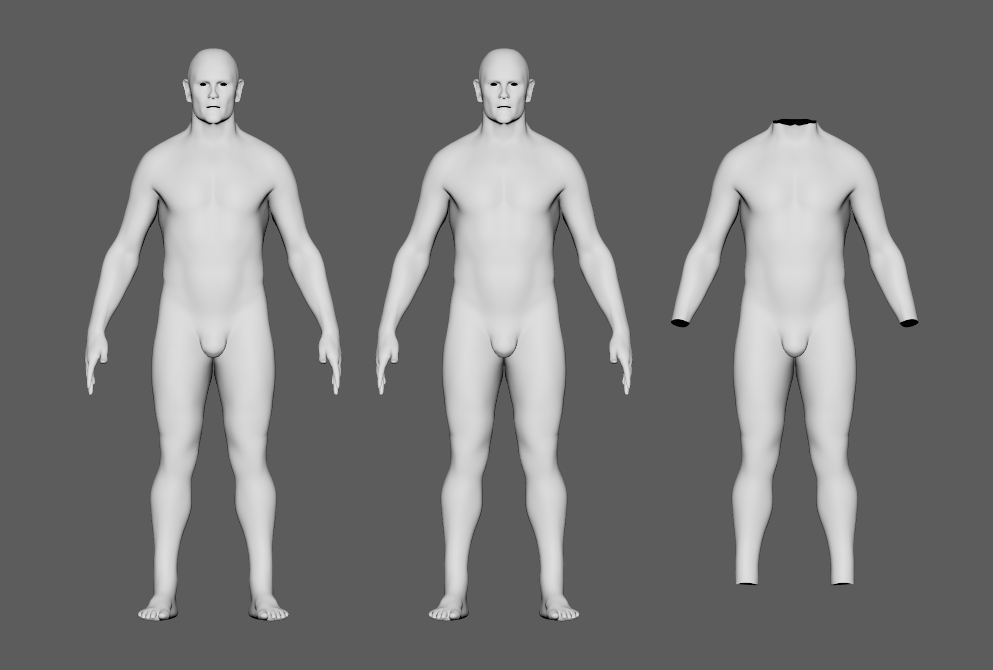
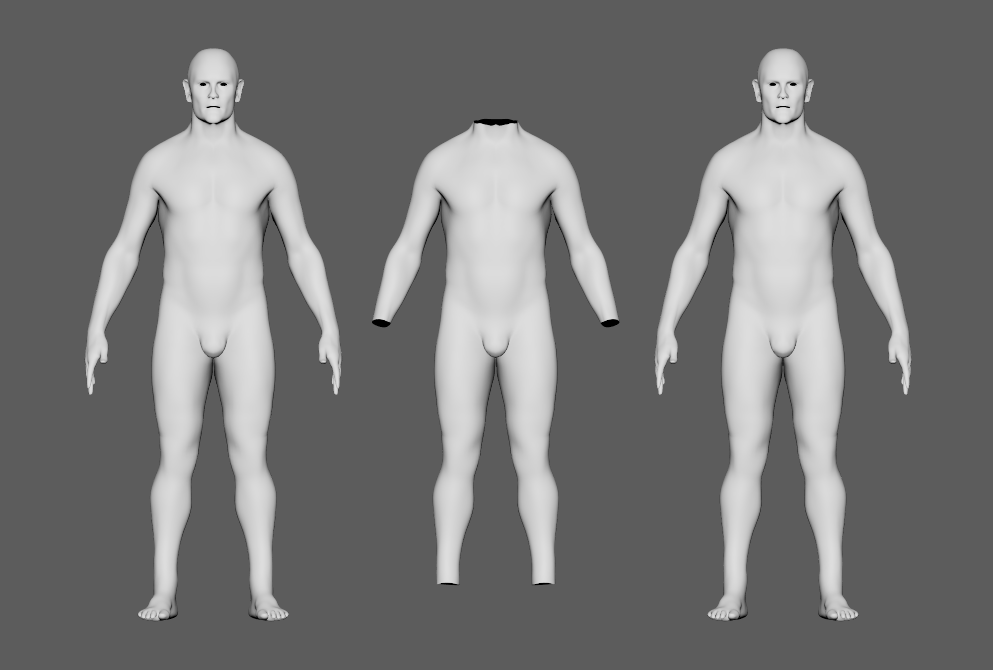
Improved screenshots for skin merge simple setup (maya and houdini). Rephrased captions.

Changed region(s): [[0.3746, 0.0597, 0.9366, 0.9254], [0.7492, 0.0597, 0.8429, 0.209]]

diff --git a/docs/houdini/simple_setup.md b/docs/houdini/simple_setup.md
@@ -28,7 +28,7 @@ The AdnSkinMerge deformer will be applied to the final mesh which will be the re
 
 <figure>
   <img src="images/simple_setup_skin_merge_00.png">
-  <figcaption><b>Figure X</b>: Basic setup for skin merge. Meshes isolated for better visualization. From left to right: Final Mesh, Animation Mesh, Simulation Mesh.</figcaption>
+  <figcaption><b>Figure X</b>: Minimum required geometries to configure an AdnSkinMerge SOP. From left to right: Animation Mesh, Simulation Mesh and Final Mesh to apply the AdnSkinMerge SOP.</figcaption>
 </figure>
 
 ### Create Deformer
@@ -42,7 +42,7 @@ To create the AdnSkinMerge node, press TAB and navigate to the submenu AdonisFX 
 
 ### Paint Weights
 
-To tweak the point attributes of an AdnSkinMerge SOP, an attribpaint is needed. To ease the creation and initial configuration of this node, select the AdnSkinMerge SOP and click on AdonisFX > Utils > Make Paintable. This utility will create an attribcreate node to define the required point attributes and assign their default values followed by an attribpaint node to allow these attributes to be modified. Both nodes are automatically named and properly connected to the AdnSkinMerge node.
+To tweak the point attributes of an AdnSkinMerge SOP, an `attribpaint` is needed. To ease the creation and initial configuration of this node, select the AdnSkinMerge SOP and click on AdonisFX > Utils > Make Paintable. This utility will create an `attribcreate` node to define the required point attributes and assign their default values followed by an `attribpaint` node to allow these attributes to be modified. Both nodes are automatically named and properly connected to the AdnSkinMerge node.
 
 <figure style="width: 70%;" markdown>
   <img src="images/simple_setup_skin_merge_02.png">

diff --git a/docs/houdini/deformers/skin_merge.md b/docs/houdini/deformers/skin_merge.md
@@ -109,4 +109,4 @@ Once the AdnSkinMerge SOP is created, the input meshes (animation mesh list, sim
 </figure>
 
 > [!NOTE]
-> To tweak the point attributes of an AdnSkinMerge SOP, an attribpaint is needed. To ease the creation and initial configuration of this node, select the AdnSkinMerge SOP and click on AdonisFX > Utils > Make Paintable. This utility will create an attribcreate node to define the required point attributes and assign their default values followed by an attribpaint node to allow these attributes to be modified. Both nodes are automatically named and properly connected to the AdnSkinMerge node.
+> To tweak the point attributes of an AdnSkinMerge SOP, an `attribpaint` is needed. To ease the creation and initial configuration of this node, select the AdnSkinMerge SOP and click on AdonisFX > Utils > Make Paintable. This utility will create an `attribcreate` node to define the required point attributes and assign their default values followed by an `attribpaint` node to allow these attributes to be modified. Both nodes are automatically named and properly connected to the AdnSkinMerge node.

diff --git a/docs/maya/simple_setup.md b/docs/maya/simple_setup.md
@@ -470,7 +470,7 @@ The AdnSkinMerge deformer will be applied to the final mesh which will be the re
 
 <figure>
   <img src="images/simple_setup_skin_merge_00.png"> 
-  <figcaption><b>Figure 41</b>: Basic setup for skin merge. Meshes isolated for better visualization. From left to right: Final Mesh, Animation Mesh, Simulation Mesh.</figcaption>
+  <figcaption><b>Figure 41</b>: Minimum required geometries to configure an AdnSkinMerge SOP. From left to right: Animation Mesh, Simulation Mesh and Final Mesh to apply the AdnSkinMerge SOP.</figcaption>
 </figure>
 
 ### Create Deformer
